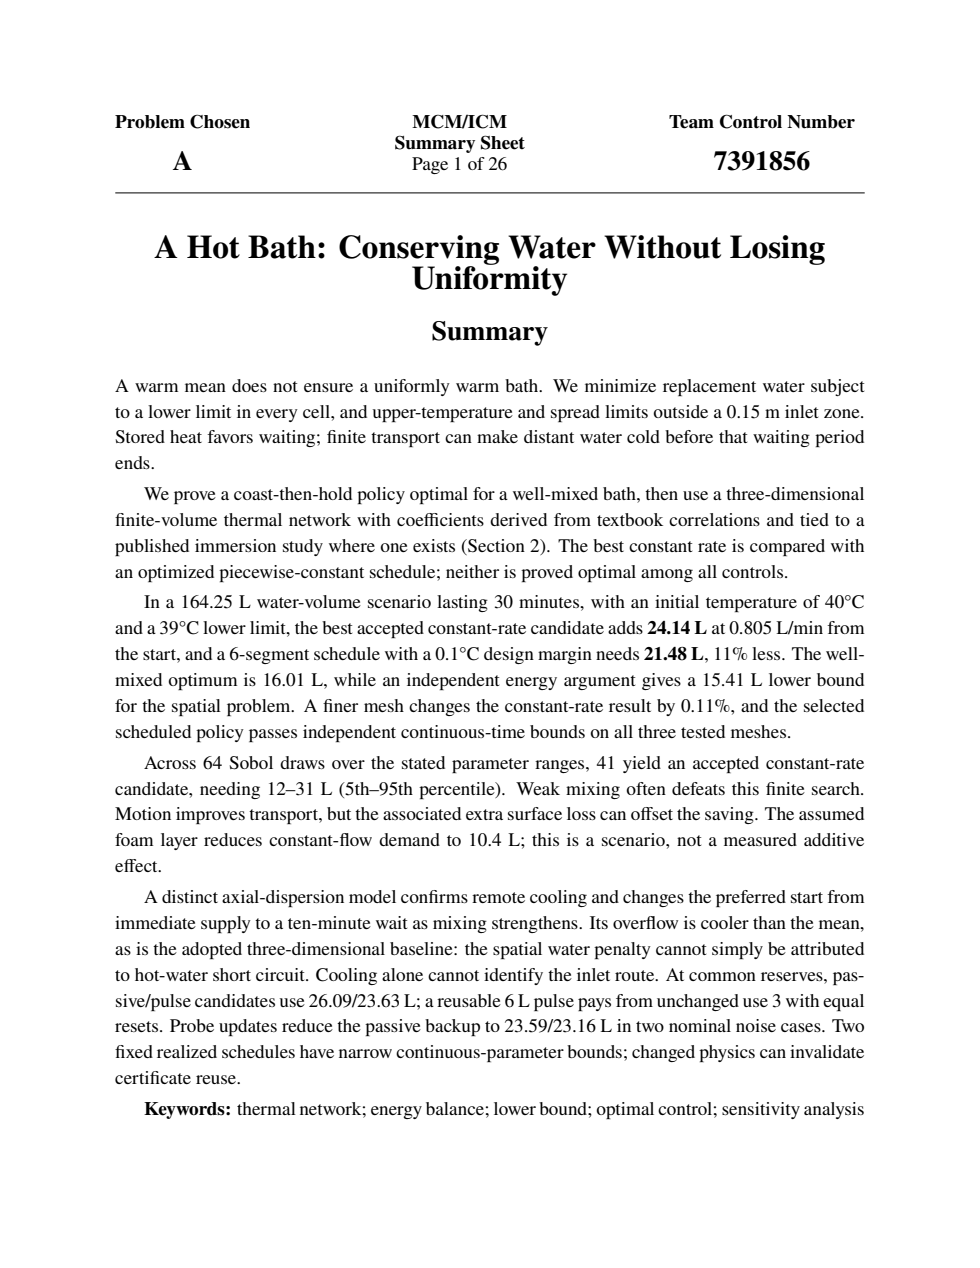
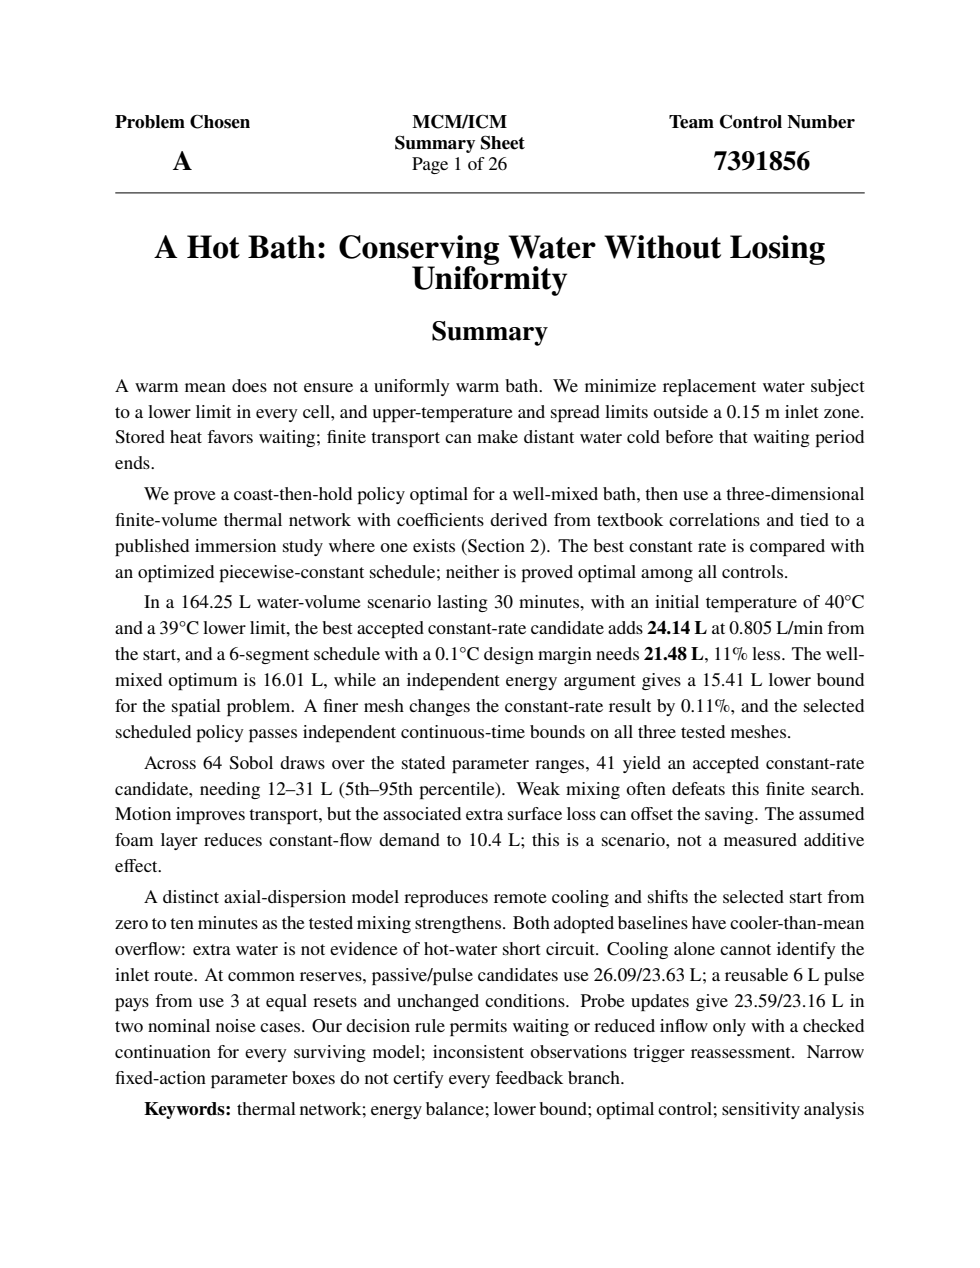
Connect bath evidence to qualified replenishment decisions

Changed region(s): [[0.1224, 0.7074, 0.8878, 0.8612]]

diff --git a/demos/mcm-2016-a/reproduce/build_report.py b/demos/mcm-2016-a/reproduce/build_report.py
@@ -293,7 +293,7 @@ para('A warm mean does not ensure a uniformly warm bath. We minimize replacement
 para('We prove a coast-then-hold policy optimal for a well-mixed bath, then use a three-dimensional finite-volume thermal network with coefficients derived from textbook correlations and tied to a published immersion study where one exists (Section 2). The best constant rate is compared with an optimized piecewise-constant schedule; neither is proved optimal among all controls.')
 para(f'In a {rv["water_volume_l"]:.2f} L water-volume scenario lasting {rv["horizon_min"]:g} minutes, with an initial temperature of {p["initial"]:g}°C and a {p["floor"]:g}°C lower limit, the best accepted constant-rate candidate adds <b>{b["water_l"]:.2f} L</b> at {b["flow_lpm"]:.3f} L/min from the start, and a {ctl["segments"]}-segment schedule with a {ctl["buffer_c"]:g}°C design margin needs <b>{ctl["water_l"]:.2f} L</b>, {save:.0f}% less. The well-mixed optimum is {a["mixed_optimum_l"]:.2f} L, while an independent energy argument gives a {a["energy_lower_bound_l"]:.2f} L lower bound for the spatial problem. A finer mesh changes the constant-rate result by {100*abs(r["mesh"]["fine_policy"]["water_l"]-b["water_l"])/b["water_l"]:.2f}%, and the selected scheduled policy passes independent continuous-time bounds on all three tested meshes.')
 para(f'Across {lr["samples"]} Sobol draws over the stated parameter ranges, {lr["feasible"]} yield an accepted constant-rate candidate, needing {qq["0.05"]:.0f}–{qq["0.95"]:.0f} L (5th–95th percentile). Weak mixing often defeats this finite search. Motion improves transport, but the associated extra surface loss can offset the saving. The assumed foam layer reduces constant-flow demand to {sc["foam"]["policy"]["water_l"]:.1f} L; this is a scenario, not a measured additive effect.')
-para(f'A distinct axial-dispersion model confirms remote cooling and changes the preferred start from immediate supply to a ten-minute wait as mixing strengthens. Its overflow is cooler than the mean, as is the adopted three-dimensional baseline: the spatial water penalty cannot simply be attributed to hot-water short circuit. Cooling alone cannot identify the inlet route. At common reserves, passive/pulse candidates use {FAIR["volumes"]["passive"]:.2f}/{FAIR["volumes"]["pulse"]:.2f} L; a reusable 6 L pulse pays from unchanged use {FAIR["crossover"]} with equal resets. Probe updates reduce the passive backup to {sum(FBZERO["flows"]):.2f}/{sum(FBRANDOM["flows"]):.2f} L in two nominal noise cases. Two fixed realized schedules have narrow continuous-parameter bounds; changed physics can invalidate certificate reuse.')
+para(f'A distinct axial-dispersion model reproduces remote cooling and shifts the selected start from zero to ten minutes as the tested mixing strengthens. Both adopted baselines have cooler-than-mean overflow: extra water is not evidence of hot-water short circuit. Cooling alone cannot identify the inlet route. At common reserves, passive/pulse candidates use {FAIR["volumes"]["passive"]:.2f}/{FAIR["volumes"]["pulse"]:.2f} L; a reusable 6 L pulse pays from use {FAIR["crossover"]} at equal resets and unchanged conditions. Probe updates give {sum(FBZERO["flows"]):.2f}/{sum(FBRANDOM["flows"]):.2f} L in two nominal noise cases. Our decision rule permits waiting or reduced inflow only with a checked continuation for every surviving model; inconsistent observations trigger reassessment. Narrow fixed-action parameter boxes do not certify every feedback branch.')
 para('<b>Keywords:</b> thermal network; energy balance; lower bound; optimal control; sensitivity analysis')
 
 tex.append(table_of_contents())
@@ -553,21 +553,22 @@ para('The flux inlet [11] and zero-gradient outlet conserve enthalpy. Three mesh
 table([['D (m²/s)','Start (min)','Water, uniform / body-local (L)'],['0.001','0',f'{AXM["command_l"]:.2f} / {AX["groups"][("localized_body",.001)]["selected"]["command_l"]:.2f}'],['0.003','10',f'{AXS["command_l"]:.2f} / {AX["groups"][("localized_body",.003)]["selected"]["command_l"]:.2f}']],[100,90,278],caption='Axial-closure candidates',label='axial')
 para('Starts are 0:120:1200 s, first floor roots are bracketed on 0:0.2:3 L/min, with design floor 39.03°C. At D=0.0003 neither profile has an accepted root; this is finite search failure. The result supports timing dependence, not a universal start or global optimum.')
 eq(r'E_{\rm excess}=\rho c_p\int q(T_{\rm out}-\overline T)\,dt.')
-para(f'Positive excess means greater overflow loss than at the contemporaneous mean. The original constant-rate baseline gives {AX["original_overflow"]["excess_j"]/1000:.2f} kJ; the matched axial uniform case gives {AX["matched_overflow"][-1]["excess_j"]/1000:.2f} kJ. Both outlets are cooler than the mean. A permitted short circuit is therefore not evidence that it caused the baseline water penalty.')
+para(f'Positive excess means extra overflow loss relative to the contemporaneous mean. Original/matched-axial constant-flow values are {AX["original_overflow"]["excess_j"]/1000:.2f}/{AX["matched_overflow"][-1]["excess_j"]/1000:.2f} kJ. Both outlets are cooler: a permitted short circuit does not establish the cause of the baseline water penalty.')
 para(r'For uniform loss, $k=(H_a+H_b)/C$ and $T\le T_{\rm in}$. For $w=T_x$, $w_t=Dw_{xx}-vw_x-kw$, $w(L)=0$ and $w(0)=v[T(0)-T_{\rm in}]/D\le0$. The maximum principle, uniform initial water and inherited interior gradient at each switch give $w\le0$, hence $T_{\rm out}\le\overline T$. Localized loss adds gradient forcing. A cold outlet can retain heat while a distant region violates comfort.')
-para(f'Steady ODE/Robin eigenfunction answers show first-order FV convergence (N160 transient error ≤{AX_ERR:.6f}°C); six independent flux/RK45 traces differ ≤{AX_RK:.2e}°C, energy ≤{AX_ENERGY:.5f} J. This is reduced-model verification, not physical or continuous-PDE certification. Diagnose outlet enthalpy before prescribing a short-circuit remedy.')
+para(f'Steady/Robin transient answers show first-order FV convergence (N160 error ≤{AX_ERR:.6f}°C). Six independent flux/RK45 differences are ≤{AX_RK:.2e}°C; integrated energy errors ≤{AX_ENERGY:.5f} J. This verifies reduced-model computation, not real baths or PDE-wide feasibility.')
 
 tex.append(r'\FloatBarrier'+'\n')
-page('12. Conclusions and a policy with clear scope')
-para('<b>Choose tolerance, then check transport.</b> Figure @fig:frontier@ prices warmth; both closures show remote cooling and timing dependence without positive excess overflow loss in their baselines. Geometry/body contact change demand; motion can raise loss, foam reduces it.')
-para(f'Baseline/scheduled replenishment is {b["water_l"]:.2f}/{ctl["water_l"]:.2f} L. Common-reserve passive/pulse candidates use {FAIR["volumes"]["passive"]:.2f}/{FAIR["volumes"]["pulse"]:.2f} L; reusable 6 L calibration pays from use {FAIR["crossover"]} at equal resets/unchanged conditions. Feedback yields {sum(FBZERO["flows"]):.2f}/{sum(FBRANDOM["flows"]):.2f} L against a {FB["backup_command_l"]:.2f} L cap in two nominal cases. Fixed-action bounds and refusals do not certify full feedback, recovery or hot-jet safety.')
+page('12. From temperatures to a replenishment decision')
+para('Choose comfort limits (Figure @fig:frontier@); qualify continuations using all compatible models’ spatial bounds over the remaining bath (Section 11.2).')
+para('<b>Reassess</b> if the model set is empty or the backup no longer qualifies; refusal is not recovery. <b>Wait</b> only if zero inflow until the next reading, followed by the backup, still qualifies. A warm mean alone is insufficient.')
+para('<b>Replenish</b> with the least-water qualifying studied continuation; retain the qualified backup if search adds none. With a cold end and binding ceiling or spread, test redistribution before adding heat. A cool outlet does not establish short-circuit waste. Two probes alone do not provide these spatial bounds.')
 
 page('13. A warmer bath, with less replacement water',True)
 para('A guide for the person in the bathtub','heading')
 para(f'<b>Choose your tolerance.</b> Allowing some cooling uses stored heat before replacement water. Our example needs about {b["water_l"]:.0f} L with a 1°C allowance, but {sc["loose comfort"]["policy"]["water_l"]:.1f} L with 2°C. These are model scenarios; your comfort and health needs determine the acceptable range.')
 para('<b>Redistribute warmth.</b> Water near the faucet may warm while distant water stays cool. Gentle movement can help; stronger motion can increase surface loss. Extra inflow can widen temperature differences. A cooler overflow can retain heat while a distant cold patch persists; measure both before attributing poor performance to hot-water short circuit.')
-para(f'<b>Use timing only under its stated conditions.</b> The baseline schedule waits {lead*seg_min:g} minutes, supplies water for {(K-lead-trail)*seg_min:g} minutes and stops for {trail*seg_min:g} minutes. It uses {ctl["water_l"]:.2f} L against {b["water_l"]:.2f} L for a constant trickle. Weaker mixing can require inflow immediately. Even with a margin, only {rv["tap_error_share"]:.0%} of the specified random tap-error trials stayed within limits; this is not a reliable manual prescription.')
-para('<b>Let readings change the plan.</b> Our modeled controller checks two temperatures every minute, then reduces inflow only if the entire remaining plan passes for every compatible model. A unique mechanism need not be identified first. If no model explains the readings, stop relying on that certificate and reassess supply, motion and heat loss. Two specified shifts were detected after one minute; this is not a universal alarm or a tested emergency response. Two probes can also miss a cold corner outside the modeled conditions.')
+para(f'<b>Wait only while a checked plan remains.</b> The baseline schedule waits {lead*seg_min:g} minutes, supplies water for {(K-lead-trail)*seg_min:g} minutes and stops for {trail*seg_min:g} minutes. It uses {ctl["water_l"]:.2f} L against {b["water_l"]:.2f} L for a constant trickle. These timings do not transfer to a differently mixed bath: the axial comparison selects zero or ten minutes. A warm average alone is insufficient. Only {rv["tap_error_share"]:.0%} of the specified random tap-error trials stayed within limits; this is not a reliable manual prescription.')
+para('<b>Follow the three decisions.</b> Our modeled controller reads two temperatures every minute. Wait or reduce inflow only when that change and the remaining backup pass for every compatible model; otherwise keep the checked backup. If no model explains the readings or the backup loses its support, reassess supply, motion and heat loss rather than treating refusal as recovery. Two specified shifts were detected after one minute; this is not a universal alarm. Spatial bounds come from the model: two probes can miss an unmodeled cold corner.')
 para(f'<b>Count preparation as well as use.</b> Across the broader model bank, cooling-only and hot-water trials lead to {FAIR["volumes"]["passive"]:.2f}/{FAIR["volumes"]["pulse"]:.2f} L during a bath. For those fixed schedules, a reusable 6 L hot-water trial pays back from use {FAIR["crossover"]} when conditions and reset costs match. Both trials need 30 minutes and a fresh uniform start. The online cases reduce the passive backup to {sum(FBZERO["flows"]):.2f}/{sum(FBRANDOM["flows"]):.2f} L under specified sensor errors; their repeated-use crossover with pulse is untested; trial/reset costs remain.')
 para('<b>Keep the practical limits in view.</b> An intact bubble layer may reduce heat loss, but the calculation does not measure a particular additive. Changed geometry, body position, motion, supply or foam needs reassessment. Use stored warmth, keep it distributed and avoid unnecessary overflow; the figures explain these tradeoffs rather than certifying bathing or hot-jet safety.')
 

diff --git a/tests/test_bath_transport.py b/tests/test_bath_transport.py
@@ -36,10 +36,16 @@ def test_delivered_paper_keeps_corrected_mechanism_and_version_identity():
     text=' '.join(' '.join(p.extract_text().split()) for p in pages)
     assert 'Challenge the transport mechanism' in text
     assert '-31.51' in text and '-26.28' in text
-    assert 'A permitted short circuit is therefore not evidence that it caused the' in text
+    assert 'a permitted short circuit does not establish the cause' in text
+    assert 'over the remaining bath' in text
+    # PDF word-spacing may be emitted as glyph placement rather than spaces.
+    assert 'followedbythebackup' in ''.join(text.split())
+    assert 'retain the qualified backup' in text
     revision=meta['transport_revision']
     assert revision['checks']==24 and revision['replays']==36
-    assert revision['generator_sha256']==hashlib.sha256((HERE/'build_report.py').read_bytes()).hexdigest()
+    # Historical revisions retain their own sources; only the active PDF binding
+    # follows later report revisions.
+    assert meta['pdf']['generator_sha256']==hashlib.sha256((HERE/'build_report.py').read_bytes()).hexdigest()
 
 
 @pytest.mark.parametrize('defect',['stale','coverage','failed','water','refinement','outlet'])

diff --git a/demos/mcm-2016-a/AI-use.md b/demos/mcm-2016-a/AI-use.md
@@ -49,3 +49,5 @@ The predeclared off-bank transfer revision froze six synthetic truth conditions 
 The 10 October manuscript integrates the exact-remainder fixed-command neighborhood argument in Section11.3, updates the summary and conclusions, and cites the directly read logarithmic-norm explanation at Theorems3/6. A 28-page candidate was rejected; duplicate prose and table/figure introductions were condensed without changing font sizes, margins or baseline results. The accepted paper has25 solution pages and one AI-use page. Another AI reread the original problem and all26 current pages, checking all-page overviews and ten readable pages including all five figures. This is a nonblind, same-family AI review, not a human or calibrated award judgment. The102 previously checked trajectories were reused; they were not rerun merely for wording or pagination.
 
 The distinct-transport revision uses an AI-authored one-dimensional conservative advection–diffusion model with flux inlet and zero diffusive outlet. Two loss profiles match total storage/conductances but do not preserve three-dimensional body displacement or stratification. The producer replays 36 fixed-policy objects and six finite-family searches; the separate checker uses no-flow analytic cooling, steady/transient continuum solutions and independently assembled direct-flux RK45, totaling 24 records. The original archived outlet diagnostic uses actual cell92. Both its excess overflow enthalpy and the matched axial diagnostic are negative, correcting a possible short-circuit interpretation rather than asserting observed hot-outlet waste. COMSOL's short official boundary-condition page was read; COMSOL was not run. Earlier expensive optimization and 102 neighborhood trajectories were reused unchanged. The full-paper revision retains rejected 29/27-page candidates privately and compresses repeated prose without changing typography. No real bath experiment, human mathematical review or calibrated award result is claimed.
+
+The decision-synthesis revision reorganizes existing evidence into wait, replenish and reassess rules, synchronizing the summary and user guide. No new thermal simulation, algorithm or qualification run was performed. Readonly checks connect recorded positive-backup/zero-action cases and an actual empty-set refusal to the stated conditions. Another AI reread the original problem and all26 current text pages, with all-page contacts and all five figures readable. This remains nonblind, same-family and uncalibrated; human or formal award review is not claimed.

diff --git a/demos/mcm-2016-a/README.en.md b/demos/mcm-2016-a/README.en.md
@@ -87,7 +87,7 @@ The [continuous-parameter supplement](reproduce/reference/continuous-transfer.md
 
 **Target: Outstanding Winner. Current reference: strong Finalist, with an adjacent F–O range; O is not established.** An author-external AI reread the original problem and all 26 manuscript pages, with all-page overviews and readable views of all five figures. This non-blind, uncalibrated assessment rests on complete coverage, the proved mixed benchmark, conservative spatial modeling and the connection between structural ambiguity, trial costs and observation-dependent actions. A distinct axial closure now supports the remote-cooling and timing findings while correcting a causal interpretation: the adopted outlets are cooler than their means, so extra water cannot simply be blamed on hot-water short circuit.
 
-The strongest remaining gap is the scattered mechanism-to-action argument. Condensing existing transport, storage and observation evidence into a conditional rule for waiting, distribution limits and certificate reassessment would be more useful than another solver or model bank. Cold-end/outlet diagnostics and timescales should explain the conditions, without invented thresholds. The continuous neighborhoods in Section 11.3 concern fixed actions and static parameters; the finite-feedback command cap is 26.09 L, giving actual water ≤ α×26.09 L for a shared multiplier α. Fixed-candidate payback does not transfer to feedback, and certificate refusal is not safe recovery.
+Section 12 now turns the evidence into three decisions: wait only when zero inflow followed by the complete backup qualifies for every compatible model; reduce supply only through a qualifying candidate; reassess when the set is empty or the backup loses support. The summary and one-page guide follow the same rule, without new simulations or changed results. A fresh whole-paper review still centers on strong F, now closer to the F/O boundary. The most valuable remaining gap is a qualified continuation after certificate refusal: specify the mismatch domain and verify a conservative continuation or termination rule. Refusal is not recovery. Section 11.3 still concerns fixed actions and static parameters; fixed-policy payback does not transfer to feedback.
 
 The [version-bound record](verification.json) identifies the final PDF and review scope. This is a qualitative comparison, not a contest result or a probability of winning.
 

diff --git a/demos/mcm-2016-a/README.md b/demos/mcm-2016-a/README.md
@@ -83,7 +83,7 @@
 
 目标是 **Outstanding Winner（O）**。作者外 AI 重新通读原题和当前 26 页全稿，查看全部页概览与五幅实际图，给出 **强 Finalist（F）中心、F—O 相邻参考范围**；尚不认定达到 O，评议非盲、未校准。依据包括完整题意覆盖、完混最优证明、守恒空间模型、结构歧义与试验成本，以及观测到行动的连接。本轮独立轴向输运对照进一步支持远端冷却和混合条件下的时序差异，并纠正了热水短路归因：采用轨迹的出口比平均水温低，不能据其额外耗水断言短路损失。
 
-数学解释与结构对照已有实质进步，但“何时可等待、何时受分布限制、何时证书需重评”的判别仍分散。最值得继续做的是把现有输运、储热和观测证据收敛为可解释的策略规则，用冷端、出口诊断与时间尺度说明条件和未知区，不增加未经验证的经验阈值。继续增加同模型成功数量不能解决这一差距。§11.3 的连续邻域覆盖固定动作与静态参数；有限反馈的 26.09 L 指令水量上界在共享倍率 α 下对应实际上界 α×26.09 L。固定候选回本次数不移用于反馈，拒绝证书复用不等于安全恢复。
+§12 已把证据收敛为三项决策：只有零入水加上完整备份尾段仍对每个相容模型合格时才等待；有合格候选才减少补水；相容集为空或备份失去支持时重评。摘要和一页指南同步更新，未新增模拟或改变数值结果。新一轮完整稿评议仍以强 F 为中心，但判断更接近 F／O 交界。当前最有价值的差距是证书失效后尚无合格的续行方案；应固定失配范围，验证保守续行或结束规则。拒绝证书复用不等于安全恢复。§11.3 的邻域只覆盖固定动作和静态参数；固定候选的回本次数仍不移用于反馈。
 
 [版本与检查范围](verification.json)绑定当前 PDF；这不是实际评奖结果或获奖概率。
 

diff --git a/demos/mcm-2016-a/reproduce/README.md b/demos/mcm-2016-a/reproduce/README.md
@@ -88,3 +88,5 @@ To rebuild the two case-page excerpts after reviewing and adopting a paper, run 
 ## Independent transport comparison
 
 [Transport sources, numerical archive and reproduction](reference/transport/README.md) preserve a distinct conservative axial closure rather than another assembly of the same thermal network. All 36 original-policy replays and six bounded finite searches retain their identities and failures. Four selected candidates pass the specified sampled refinements; 24 analytic/independent-flux records check numerical implementation. The report consumer rejects stale inputs, missing coverage, incorrectly promoted failures and an incorrect original outlet identity. The original baseline and its optimization were not rerun. Section11.4, the summary, conclusion and user guide distinguish a permitted hot-water short circuit from actual excess outlet enthalpy: the adopted trajectories have cooler outlets. The standard uniform-loss gradient argument is conditional, and does not extend to the localized-body profile. This supplements structural interpretation, without establishing a PDE-wide feasibility certificate, empirical validity or a contest award.
+
+The subsequent Section12 decision synthesis reuses these archives and the retained-tail feedback argument. Waiting requires a qualifying zero-flow prefix followed by the whole backup, over every surviving finite model. Empty sets and unsupported backups trigger reassessment, not a recovery guarantee. This manuscript-only revision does not rerun numerical studies. Active source/PDF identities are in the root `pdf` record of `../verification.json`; each historical revision retains its own original identities.
